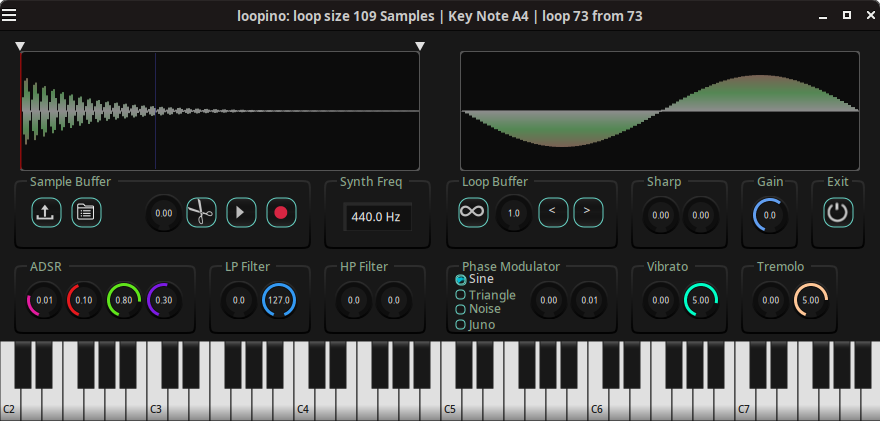
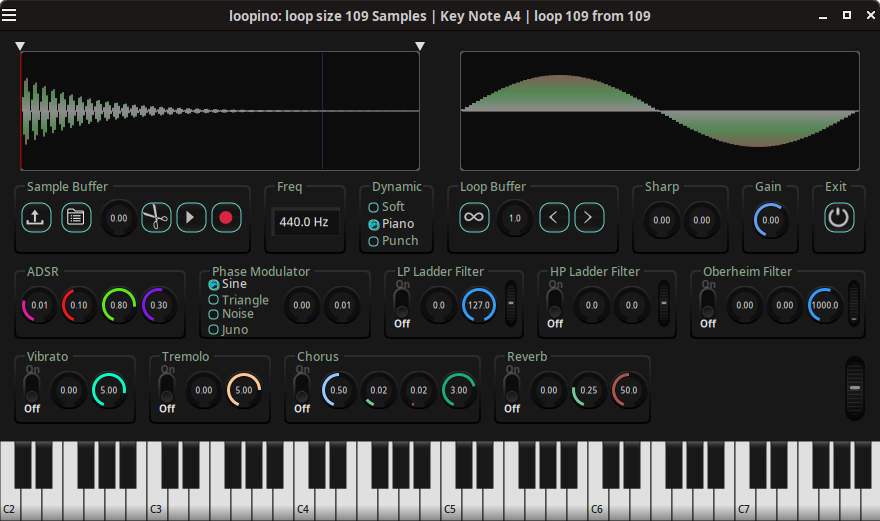
Update README and screenshot

diff --git a/Loopino/AlsaAudioOut.h b/Loopino/AlsaAudioOut.h
@@ -147,7 +147,7 @@ public:
 
         if (n == -EPIPE) {
             xruns.fetch_add(1, std::memory_order_relaxed);
-            std::cout << "Xrun Overrun " << xruns.load(std::memory_order_relaxed) << std::endl;
+            //std::cout << "Xrun Overrun " << xruns.load(std::memory_order_relaxed) << std::endl;
             snd_pcm_prepare(pcm_in);
             uiPtr->record = false;
             rec = false;
@@ -214,7 +214,7 @@ public:
 
             if (written == -EPIPE) {
                 xruns.fetch_add(1, std::memory_order_relaxed);
-                std::cout << "Xrun Underrun " << xruns.load(std::memory_order_relaxed) << std::endl;
+                //std::cout << "Xrun Underrun " << xruns.load(std::memory_order_relaxed) << std::endl;
                 snd_pcm_prepare(pcm);
             }
             else if (written == -ESTRPIPE) {

diff --git a/README.md b/README.md
@@ -26,10 +26,16 @@ Craft seamless loops in seconds — Loopino keeps sampling simple, fast, and fun
 - Preset save/load system
 - Export processed samples/loops as WAV in selected key
 - LP/HP ladder filter with resonance & cutoff
+- Oberheim Filter
 - Phase modulators: sine, triangle, noise & Juno-style
 - Vibrato & tremolo
+- Chorus & Reverb 
+- Pitch Wheel support
+- MIDI PC support
 - Root frequency control
 - Up to 48 voices for polyphonic playback
+- Full ALSA Audio & RAW MIDI support
+- Full jack-audio-connection-kit support
 
 
 The GUI is created with libxputty.
@@ -43,9 +49,13 @@ The GUI is created with libxputty.
 
 - libsndfile1-dev
 - libfftw3-dev
-- libjack(-jackd2)-dev
 - libcairo2-dev
 - libx11-dev
+
+# Additional Dependencies for standalone Version
+
+- libjack(-jackd2)-dev
+- libasound2-dev
 
 ## Building the Standalone from source code
 
